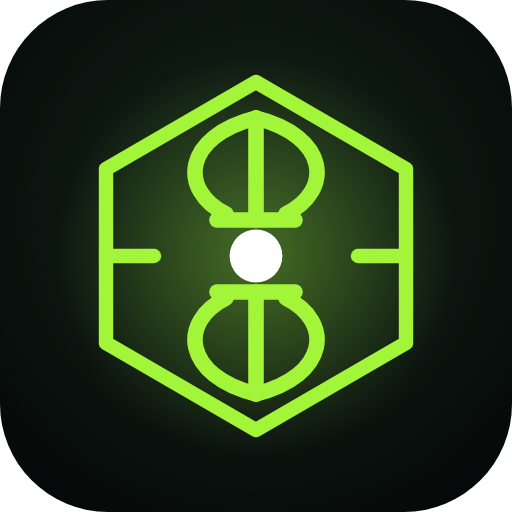
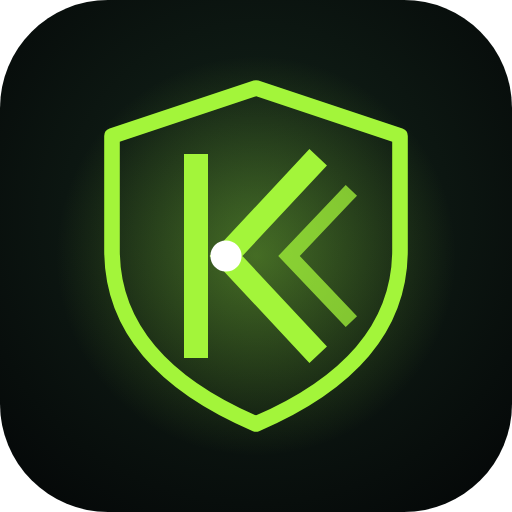
Shrinking ammo strip, manual/auto reload switch, rebrand to Korvex Studios
- Fired rounds pop out of the HUD ammo strip and the strip refills round by
  round on reload (previously spent rounds only dimmed)
- RELOAD: MANUAL | AUTO switch on the HUD, manual by default; manual waits
  for Reload / R / tapping the ammo strip, auto reloads when empty
- Replace Vajra Games with Korvex Studios: new shield-and-chevron mark,
  splash, header, app icons and README

Claude-Session: https://claude.ai/code/session_0144h77ArRX4KyvnJBYfRPJE

Changed region(s): [[0.1875, 0.125, 0.8125, 0.875]]

diff --git a/index.html b/index.html
@@ -3,8 +3,8 @@
 <head>
   <meta charset="utf-8" />
   <meta name="viewport" content="width=device-width, initial-scale=1, viewport-fit=cover" />
-  <title>Calibre — Gun Simulator &amp; Field Manual · Vajra Games</title>
-  <meta name="description" content="Calibre by Vajra Games — Realistic gun sound simulator with per-weapon vibration and flashlight effects, plus a field manual of famous firearms — including Indian service weapons." />
+  <title>Calibre — Gun Simulator &amp; Field Manual · Korvex Studios</title>
+  <meta name="description" content="Calibre by Korvex Studios — Realistic gun sound simulator with per-weapon vibration and flashlight effects, plus a field manual of famous firearms — including Indian service weapons." />
   <meta name="theme-color" content="#06090b" />
   <link rel="manifest" href="manifest.webmanifest" />
   <link rel="icon" href="icons/icon.svg" type="image/svg+xml" />
@@ -37,14 +37,12 @@
       <symbol id="i-close" viewBox="0 0 24 24"><path d="M6 6l12 12M18 6L6 18" stroke="currentColor" stroke-width="2.4"/></symbol>
       <symbol id="i-play" viewBox="0 0 24 24"><path d="M7 4l13 8-13 8z" fill="currentColor"/></symbol>
       <symbol id="i-rotate" viewBox="0 0 24 24"><rect x="3" y="8" width="18" height="11" rx="1.5" fill="none" stroke="currentColor" stroke-width="2"/><path d="M8 4h6a4 4 0 014 4" fill="none" stroke="currentColor" stroke-width="2"/><path d="M16 6l2 2 2-2" fill="none" stroke="currentColor" stroke-width="2"/></symbol>
-      <symbol id="i-vajra" viewBox="0 0 64 64"><path class="v-hex" pathLength="1" d="M32 3 L57 17.5 L57 46.5 L32 61 L7 46.5 L7 17.5 Z" fill="none" stroke="currentColor" stroke-width="2.5" stroke-linejoin="round"/>
-        <g class="v-bolt" fill="none" stroke="currentColor" stroke-width="2.6" stroke-linecap="round" stroke-linejoin="round">
-          <path pathLength="1" d="M32 26 V9"/><path pathLength="1" d="M27 25 C19 21 20 12 32 9"/><path pathLength="1" d="M37 25 C45 21 44 12 32 9"/>
-          <path pathLength="1" d="M32 38 V55"/><path pathLength="1" d="M27 39 C19 43 20 52 32 55"/><path pathLength="1" d="M37 39 C45 43 44 52 32 55"/>
-          <path pathLength="1" d="M25.5 26 H38.5"/><path pathLength="1" d="M25.5 38 H38.5"/>
+      <symbol id="i-mark" viewBox="0 0 64 64"><path class="v-hex" pathLength="1" d="M32 4 L56 12 V31 C56 45 46 54 32 60 C18 54 8 45 8 31 V12 Z" fill="none" stroke="currentColor" stroke-width="2.6" stroke-linejoin="round"/>
+        <g class="v-bolt" fill="none" stroke="currentColor" stroke-width="4" stroke-linecap="square" stroke-linejoin="miter">
+          <path pathLength="1" d="M22 17 V47"/><path pathLength="1" d="M41 17 L27 32 L41 47"/>
         </g>
-        <circle class="v-core" cx="32" cy="32" r="4.4" fill="currentColor"/>
-        <path class="v-ticks" pathLength="1" d="M7 32 H15 M49 32 H57" stroke="currentColor" stroke-width="2.5"/></symbol>
+        <path class="v-ticks" pathLength="1" d="M47 22 L37.5 32 L47 42" fill="none" stroke="currentColor" stroke-width="2.6" stroke-linecap="square" opacity=".75"/>
+        <circle class="v-core" cx="27" cy="32" r="2.6" fill="#fff"/></symbol>
       <symbol id="i-bullet" viewBox="0 0 10 40"><path d="M5 0 Q10 8 9.4 14 L9.4 16 L0.6 16 L0.6 14 Q0 8 5 0Z" fill="#c26d3a"/><rect x="0.6" y="16" width="8.8" height="22" fill="#d6a84a"/><rect x="0" y="37" width="10" height="3" fill="#a07a2a"/></symbol>
       <symbol id="i-logo" viewBox="0 0 32 32"><path d="M16 2l12 7v14l-12 7-12-7V9z" fill="none" stroke="currentColor" stroke-width="2"/><circle cx="16" cy="16" r="6" fill="none" stroke="currentColor" stroke-width="2"/><path d="M16 6v5M16 21v5M6 16h5M21 16h5" stroke="currentColor" stroke-width="2"/><circle cx="16" cy="16" r="1.8" fill="currentColor"/></symbol>
     </defs>
@@ -53,15 +51,13 @@
   <!-- ============================== SPLASH ============================== -->
   <div class="splash" id="splash" aria-hidden="true">
     <div class="splash-in">
-      <svg class="splash-mark" viewBox="0 0 64 64"><path class="v-hex" pathLength="1" d="M32 3 L57 17.5 L57 46.5 L32 61 L7 46.5 L7 17.5 Z" fill="none" stroke="currentColor" stroke-width="2.5" stroke-linejoin="round"/>
-        <g class="v-bolt" fill="none" stroke="currentColor" stroke-width="2.6" stroke-linecap="round" stroke-linejoin="round">
-          <path pathLength="1" d="M32 26 V9"/><path pathLength="1" d="M27 25 C19 21 20 12 32 9"/><path pathLength="1" d="M37 25 C45 21 44 12 32 9"/>
-          <path pathLength="1" d="M32 38 V55"/><path pathLength="1" d="M27 39 C19 43 20 52 32 55"/><path pathLength="1" d="M37 39 C45 43 44 52 32 55"/>
-          <path pathLength="1" d="M25.5 26 H38.5"/><path pathLength="1" d="M25.5 38 H38.5"/>
+      <svg class="splash-mark" viewBox="0 0 64 64"><path class="v-hex" pathLength="1" d="M32 4 L56 12 V31 C56 45 46 54 32 60 C18 54 8 45 8 31 V12 Z" fill="none" stroke="currentColor" stroke-width="2.6" stroke-linejoin="round"/>
+        <g class="v-bolt" fill="none" stroke="currentColor" stroke-width="4" stroke-linecap="square" stroke-linejoin="miter">
+          <path pathLength="1" d="M22 17 V47"/><path pathLength="1" d="M41 17 L27 32 L41 47"/>
         </g>
-        <circle class="v-core" cx="32" cy="32" r="4.4" fill="currentColor"/>
-        <path class="v-ticks" pathLength="1" d="M7 32 H15 M49 32 H57" stroke="currentColor" stroke-width="2.5"/></svg>
-      <div class="splash-studio">VAJRA <span>GAMES</span></div>
+        <path class="v-ticks" pathLength="1" d="M47 22 L37.5 32 L47 42" fill="none" stroke="currentColor" stroke-width="2.6" stroke-linecap="square" opacity=".75"/>
+        <circle class="v-core" cx="27" cy="32" r="2.6" fill="#fff"/></svg>
+      <div class="splash-studio">KORVEX <span>STUDIOS</span></div>
       <div class="splash-game wordmark">CAL<svg class="bi"><use href="#i-bullet"/></svg>BRE</div>
     </div>
   </div>
@@ -70,8 +66,8 @@
   <main id="view-armory" class="view" aria-label="Armory">
     <header class="arm-head">
       <div class="brand">
-        <svg class="brand-mark"><use href="#i-vajra"/></svg>
-        <div><h1 class="wordmark">CAL<svg class="bi"><use href="#i-bullet"/></svg>BRE</h1><p>Gun simulator · Field manual · <b>by Vajra Games</b></p></div>
+        <svg class="brand-mark"><use href="#i-mark"/></svg>
+        <div><h1 class="wordmark">CAL<svg class="bi"><use href="#i-bullet"/></svg>BRE</h1><p>Gun simulator · Field manual · <b>by Korvex Studios</b></p></div>
       </div>
       <button class="icon-btn" data-action="settings" aria-label="Settings"><svg><use href="#i-gear"/></svg></button>
     </header>
@@ -165,7 +161,7 @@
         <div class="ammo-meta"><span id="ammo-count">0 / 0</span><span id="ammo-cal"></span><span id="heat-wrap" title="Barrel heat"><b>HEAT</b><i class="heat"><i id="heat"></i></i></span></div>
       </div>
       <div class="hud-actions">
-        <button class="autold" data-action="autoreload" aria-pressed="true" title="Reload automatically when empty"><i></i><span>AUTO<br />LOAD</span></button>
+        <div class="rmode" role="group" aria-label="Reload mode"><span>RELOAD</span><div><button data-action="rmode" data-rmode="manual" aria-pressed="true" title="You reload by tapping RELOAD (or R)">MANUAL</button><button data-action="rmode" data-rmode="auto" aria-pressed="false" title="Reloads automatically when empty">AUTO</button></div></div>
         <button class="reload" data-action="reload" aria-label="Reload"><svg><use href="#i-reload"/></svg><span>Reload</span><i class="ring"></i></button>
         <button class="trigger" id="trigger" aria-label="Fire"><span>FIRE</span></button>
       </div>
@@ -224,7 +220,7 @@
 
   <div class="gate" id="gate" hidden>
     <div class="gate-card">
-      <svg class="gate-mark"><use href="#i-vajra"/></svg>
+      <svg class="gate-mark"><use href="#i-mark"/></svg>
       <h2>Calibre</h2>
       <p>Calibre uses sound, vibration and light to simulate gunfire.</p>
       <ul>

diff --git a/js/app.js b/js/app.js
@@ -18,9 +18,10 @@ const store = {
 };
 const DEFAULTS = {
   sound: true, vibrate: true, flash: true, torch: false, shake: false, scene: 'range',
-  volume: 0.9, amb: 0.35, haptic: 1, infinite: false, autoreload: true, recoil: true, particles: true, weather: true, softflash: false,
+  volume: 0.9, amb: 0.35, haptic: 1, infinite: false, reloadMode: 'manual', recoil: true, particles: true, weather: true, softflash: false,
 };
 const settings = { ...DEFAULTS, ...store.get('settings', {}), torch: false, shake: false };
+const autoReload = () => settings.reloadMode === 'auto';
 const saveSettings = () => { const { torch, shake, ...rest } = settings; store.set('settings', rest); };
 const favs = new Set(store.get('favs', []));
 
@@ -230,6 +231,7 @@ function renderModes() {
     return `<button class="mode ${sim ? 'sim' : ''}" role="radio" data-mode="${m}" aria-checked="${m === S.mode}" ${tip ? `title="${tip}"` : ''}><span class="led"></span>${m === 'burst' ? `${S.w.burst ?? 3}-rd burst` : MODE_NAME[m]}</button>`;
   }).join('');
 }
+$('.ammo').addEventListener('click', () => { if (S.w && S.ammo < S.w.capacity) reload(); });
 $('#modes').addEventListener('click', (e) => { const b = e.target.closest('[data-mode]'); if (b) setMode(b.dataset.mode); });
 function setMode(m) {
   if (m === S.mode) return;
@@ -246,7 +248,16 @@ function renderAmmo(full) {
     strip.innerHTML = w.capacity <= 40 ? Array.from({ length: w.capacity }, () => '<i class="round"></i>').join('') : '<div class="ammo-bar"><i></i></div>';
     $('#ammo-cal').textContent = CARTS[w.cart].name.split(' (')[0];
   }
-  if (w.capacity <= 40) { const r = strip.children; for (let i = 0; i < r.length; i++) r[i].classList.toggle('spent', i >= S.ammo); }
+  if (w.capacity <= 40) {
+    const r = strip.children, refill = !full && S.ammo === w.capacity;
+    for (let i = 0; i < r.length; i++) {
+      const spent = i >= S.ammo;
+      if (!spent && r[i].classList.contains('spent') && refill) { r[i].style.animationDelay = `${(i % 40) * 18}ms`; r[i].classList.add('in'); }
+      if (spent) { r[i].classList.remove('in'); r[i].style.animationDelay = ''; }
+      r[i].classList.toggle('spent', spent);
+      if (full) r[i].classList.remove('in');
+    }
+  }
   else strip.querySelector('.ammo-bar i').style.width = `${(S.ammo / w.capacity) * 100}%`;
   const c = $('#ammo-count');
   c.textContent = settings.infinite ? '∞' : `${S.ammo} / ${w.capacity}`;
@@ -279,8 +290,9 @@ function releaseTrigger() {
 }
 function emptyClick() {
   audio.dryFire(); Haptics.tick(8);
+  $('#reload-banner').textContent = autoReload() ? 'EMPTY — RELOADING' : 'EMPTY — TAP RELOAD';
   $('#reload-banner').hidden = false; $('.reload').classList.add('attn');
-  if (settings.autoreload) setTimeout(() => { if (!S.reloading && !hasAmmo()) reload(); }, 350);
+  if (autoReload()) setTimeout(() => { if (!S.reloading && !hasAmmo()) reload(); }, 350);
 }
 
 function startSeries(n) {
@@ -416,7 +428,7 @@ function shotFx(item) {
   S.heat = Math.min(1, S.heat + 1 / hotAfter(w));
   renderAmmo(false);
   if (item.last) {
-    if (settings.autoreload) setTimeout(() => { if (!S.reloading && !hasAmmo()) reload(); }, w.ping ? 600 : 300);
+    if (autoReload()) setTimeout(() => { if (!S.reloading && !hasAmmo()) reload(); }, w.ping ? 600 : 300);
     else { $('#reload-banner').hidden = false; $('.reload').classList.add('attn'); }
   }
 }
@@ -599,7 +611,7 @@ async function toggle(name) {
   }
   saveSettings(); syncToggles();
 }
-function syncAutoReload() { $('[data-action="autoreload"]').setAttribute('aria-pressed', settings.autoreload); }
+function syncAutoReload() { $$('[data-rmode]').forEach((b) => b.setAttribute('aria-pressed', b.dataset.rmode === settings.reloadMode)); }
 function syncToggles() {
   syncAutoReload();
   for (const n of ['sound', 'vibrate', 'flash', 'torch', 'shake']) { const b = $(`[data-tog="${n}"]`); b.classList.toggle('on', !!settings[n]); b.setAttribute('aria-pressed', !!settings[n]); }
@@ -668,7 +680,11 @@ document.addEventListener('click', (e) => {
   else if (a === 'prev') step(-1);
   else if (a === 'next') step(1);
   else if (a === 'reload') reload();
-  else if (a === 'autoreload') { settings.autoreload = !settings.autoreload; saveSettings(); syncAutoReload(); toast(settings.autoreload ? 'Auto reload ON — reloads by itself when empty' : 'Auto reload OFF', 1500); }
+  else if (a === 'rmode') {
+    settings.reloadMode = b.dataset.rmode; saveSettings(); syncAutoReload();
+    toast(autoReload() ? 'Auto reload — the gun reloads itself when empty' : 'Manual reload — tap RELOAD (or R) when empty', 1600);
+    if (autoReload() && S.w && !hasAmmo() && !S.reloading) reload();
+  }
   else if (a === 'fav') {
     const id = S.w.id;
     favs.has(id) ? favs.delete(id) : favs.add(id);
@@ -817,7 +833,8 @@ async function walkCycle() {
 // ------------------------------------------------------------------ settings dialog
 function openSettings() {
   $('#s-volume').value = settings.volume; $('#s-amb').value = settings.amb; $('#s-haptic').value = settings.haptic;
-  ['infinite', 'autoreload', 'recoil', 'particles', 'weather', 'softflash'].forEach((k) => { $(`#s-${k}`).checked = settings[k]; });
+  ['infinite', 'recoil', 'particles', 'weather', 'softflash'].forEach((k) => { $(`#s-${k}`).checked = settings[k]; });
+  $('#s-autoreload').checked = autoReload();
   $('#cap-note').textContent = [
     `Vibration: ${Haptics.supported ? 'supported' : 'not supported in this browser'}`,
     `Flashlight: ${Torch.possible && window.isSecureContext ? 'may be available (Chrome on Android)' : 'unavailable'}`,
@@ -831,7 +848,7 @@ $('#settings').addEventListener('input', (e) => {
   else if (k === 'amb') { settings.amb = +t.value; audio.setAmbientVolume(settings.amb); }
   else if (k === 'haptic') { settings.haptic = +t.value; Haptics.intensity = settings.haptic; Haptics.reset(); Haptics.seq([60]); }
   else if (t.type === 'checkbox') settings[k] = t.checked;
-  if (k === 'autoreload') syncAutoReload();
+  if (k === 'autoreload') { settings.reloadMode = t.checked ? 'auto' : 'manual'; delete settings.autoreload; syncAutoReload(); }
   if (k === 'infinite' && S.w) { S.ammo = S.w.capacity; renderAmmo(false); }
   if (k === 'weather') applyScene(settings.scene);
   saveSettings();
@@ -871,7 +888,7 @@ function route() {
     if (settings.torch) { settings.torch = false; Torch.disable(); syncToggles(); }
     audio.stopAmbient(); weather.stop();
     $('#view-sim').hidden = true; $('#view-armory').hidden = false;
-    document.title = 'Calibre — Gun Simulator & Field Manual · Vajra Games';
+    document.title = 'Calibre — Gun Simulator & Field Manual · Korvex Studios';
     keepAwake(false);
   }
   checkRotate();
@@ -893,7 +910,7 @@ function gate() {
 }
 
 // ------------------------------------------------------------------ boot
-// Splash: the Vajra mark draws in over ~0.5 s, names rise, then it fades.
+// Splash: the Korvex mark draws in over ~0.5 s, names rise, then it fades.
 const SPLASH_MS = 1150;
 setTimeout(() => { const sp = $('#splash'); sp.classList.add('done'); setTimeout(() => sp.remove(), 400); }, SPLASH_MS);
 buildFilters(); renderGrid(); renderHero(); syncToggles(); route(); gate();

diff --git a/css/app.css b/css/app.css
@@ -261,7 +261,11 @@ select { --cut: 6px; background: var(--panel-2); border: 0; box-shadow: inset 0 
 .ammo-strip.pistol .round { height: 24px; width: 10px; }
 .ammo-strip.shell .round { height: 34px; width: 14px; border-radius: 2px; background: linear-gradient(180deg, #b71c1c 0 72%, #d19c33 72%), linear-gradient(90deg, #7a1010, #e74c3c); }
 .ammo-strip.bmg .round { width: 15px; height: 44px; }
-.round.spent { opacity: 0.1; transform: translateY(4px); }
+.round.spent { animation: roundOut 0.16s ease-in forwards; }
+.round.in { animation: roundIn 0.22s cubic-bezier(.3,1.5,.5,1) backwards; }
+@keyframes roundOut { 40% { transform: translateY(-14px) rotate(8deg); opacity: 1; } to { transform: translateY(-22px) rotate(14deg) scale(0.6); opacity: 0; width: 0; margin-right: -3px; } }
+@keyframes roundIn { from { transform: translateY(18px); opacity: 0; } }
+.ammo { cursor: pointer; }
 .ammo-bar { width: min(340px, 44vw); height: 12px; background: var(--panel-3); overflow: hidden; box-shadow: inset 0 0 0 1px var(--line); }
 .ammo-bar i { display: block; height: 100%; background: repeating-linear-gradient(90deg, var(--brass) 0 6px, #6a4a10 6px 8px); transition: width 0.1s; }
 .ammo-meta { display: flex; gap: 12px; align-items: center; font-family: var(--f-mono); font-size: 12.5px; color: var(--muted); }
@@ -464,6 +468,11 @@ kbd { font-family: var(--f-mono); font-size: 11px; padding: 1px 6px; box-shadow:
 .hero-feat .fstats .flags { margin: 0; }
 .mode.sim { border-style: dashed; }
 .mode.sim::after { content: '*'; color: var(--dim); margin-left: -4px; }
+.rmode { display: grid; gap: 3px; justify-items: center; font-family: var(--f-mono); font-size: 9.5px; letter-spacing: 0.14em; color: var(--dim); }
+.rmode > div { display: flex; box-shadow: inset 0 0 0 1px var(--line-2); }
+.rmode button { border: 0; background: var(--panel-2); color: var(--muted); font-family: var(--f-ui); font-weight: 700; font-size: 11.5px; letter-spacing: 0.08em; padding: 7px 9px; }
+.rmode button[aria-pressed='true'] { background: var(--acc); color: var(--acc-ink); }
+@media (max-height: 520px) { .rmode > span { display: none; } .rmode button { padding: 6px 7px; font-size: 10.5px; } }
 .autold { --cut: 8px; clip-path: polygon(8px 0, 100% 0, 100% calc(100% - 8px), calc(100% - 8px) 100%, 0 100%, 0 8px); display: inline-flex; align-items: center; gap: 7px; height: 50px; padding: 0 11px; border: 0;
   background: var(--panel-2); box-shadow: inset 0 0 0 1px var(--line); color: var(--muted); font-family: var(--f-mono); font-size: 10.5px; line-height: 1.15; text-align: left; letter-spacing: 0.08em; }
 .autold i { width: 10px; height: 10px; background: var(--dim); flex: none; }
@@ -472,7 +481,7 @@ kbd { font-family: var(--f-mono); font-size: 11px; padding: 1px 6px; box-shadow:
 @media (max-height: 520px) { .autold { height: 40px; padding: 0 8px; font-size: 9.5px; } }
 @media (max-width: 720px) { .autold span { display: none; } .autold { padding: 0 12px; } }
 
-/* splash: vajra mark draws in (~0.5 s), studio + game names rise, then fades */
+/* splash: Korvex mark draws in (~0.5 s), studio + game names rise, then fades */
 .splash { position: fixed; inset: 0; z-index: 100; display: grid; place-items: center; background: radial-gradient(ellipse at center, #0d1a12, #030506 70%); transition: opacity 0.35s, visibility 0.35s; }
 .splash.done { opacity: 0; visibility: hidden; pointer-events: none; }
 .splash-in { display: grid; justify-items: center; gap: 10px; }
@@ -480,7 +489,7 @@ kbd { font-family: var(--f-mono); font-size: 11px; padding: 1px 6px; box-shadow:
 .splash-mark [pathLength] { stroke-dasharray: 1; stroke-dashoffset: 1; animation: vdraw 0.5s cubic-bezier(.6, 0, .3, 1) forwards; }
 .splash-mark .v-bolt [pathLength] { animation-delay: 0.08s; }
 .splash-mark .v-ticks { animation-delay: 0.25s !important; }
-.splash-mark .v-core { transform-origin: 32px 32px; transform: scale(0); animation: vcore 0.35s 0.35s cubic-bezier(.3, 1.6, .5, 1) forwards; }
+.splash-mark .v-core { transform-origin: 27px 32px; transform: scale(0); animation: vcore 0.35s 0.35s cubic-bezier(.3, 1.6, .5, 1) forwards; }
 @keyframes vdraw { to { stroke-dashoffset: 0; } }
 @keyframes vcore { to { transform: scale(1); } }
 .splash-mark { animation: vflash 0.5s 0.45s ease-out; }

diff --git a/sw.js b/sw.js
@@ -1,6 +1,6 @@
 // Offline cache: app shell is cached on install, everything else is
 // served stale-while-revalidate so updates land on the next visit.
-const CACHE = 'calibre-v3';
+const CACHE = 'calibre-v4';
 const SHELL = [
   './', 'index.html', 'css/app.css',
   'js/app.js', 'js/data.js', 'js/render.js', 'js/audio.js', 'js/fx.js', 'js/scenes.js', 'js/flags.js', 'js/data-world.js',

diff --git a/README.md b/README.md
@@ -1,6 +1,6 @@
 # CALIBRE — Gun Simulator & Field Manual
 
-*A Vajra Games title.* **Vajra Games** is the umbrella studio brand (the vajra is Indra's thunderbolt); its hexagon thunderbolt mark appears in the start-up animation and the app icon.
+*A Korvex Studios title.* **Korvex Studios** is the umbrella studio brand for this and future games. Its mark is a shield holding a chevron "K". It appears in the start-up animation and the app icon.
 
 A web-based gun sound simulator inspired by *Gun Sounds: Gun Simulator*, with stronger UI/UX and an
 educational layer. Fire 24 historic and modern weapons from WWI to today. Every shot is
@@ -23,8 +23,8 @@ No build step and no dependencies: plain HTML/CSS/ES modules, ready for Netlify.
 | **Flash** | Per-weapon muzzle flash shape (birdcage flower, brake side-blast, shotgun fireball, MG cone, compensator jets), colour, size and duration; matching flashlight (torch) pattern. |
 | **Environments** | Firing range, desert, Himalayan snow, jungle, urban, night, indoor — each changes backdrop, echo, ground surface, weather particles, ambient sound and shows the gun's reliability there. |
 | **Fire modes** | Real modes plus a trigger-controlled burst on every automatic weapon (marked *) and a hold-to-repeat **Rapid** mode on semi-auto, bolt and pump guns. |
-| **Reload** | Animated: the empty magazine drops and tumbles to the ground with a landing sound, a fresh one slides in and the bolt or slide is racked. Clips are pressed in from the top, shells go into the tube one by one and belts are swapped. Pistol slides lock back when empty. A HUD **AUTO LOAD** switch reloads automatically. |
-| **Splash** | The Vajra mark draws in (~0.5 s), then VAJRA GAMES and the CALIBRE wordmark appear. `SPLASH_MS` in `js/app.js` sets the total time. |
+| **Reload** | MANUAL / AUTO switch on the HUD (manual by default). Each fired round pops out of the ammo strip, and the strip refills round by round on reload. Animated: the empty magazine drops and tumbles to the ground with a landing sound, a fresh one slides in and the bolt or slide is racked. Clips are pressed in from the top, shells go into the tube one by one and belts are swapped. Pistol slides lock back when empty. |
+| **Splash** | The Korvex mark draws in (~0.5 s), then KORVEX STUDIOS and the CALIBRE wordmark appear. `SPLASH_MS` in `js/app.js` sets the total time. |
 | **Heat** | Barrel heat builds with sustained fire and cools over time; a hot barrel smokes. |
 | **Landscape-first** | Designed for a sideways phone; prompts to rotate in portrait (with a portrait fallback). Fullscreen + landscape lock. |
 | **PWA** | Installable, offline, wake lock. |
